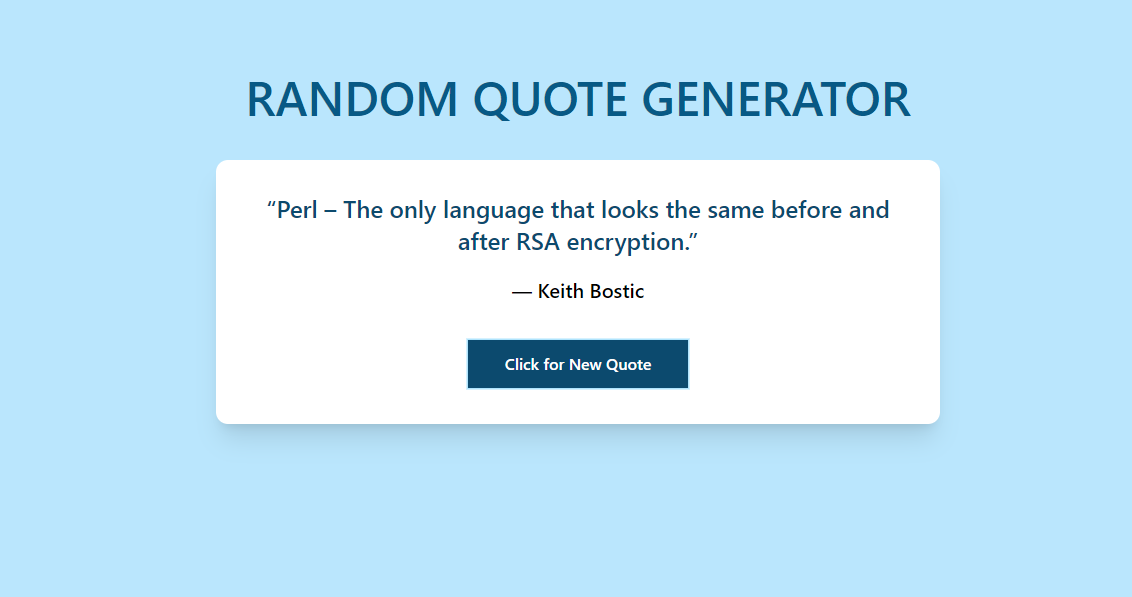
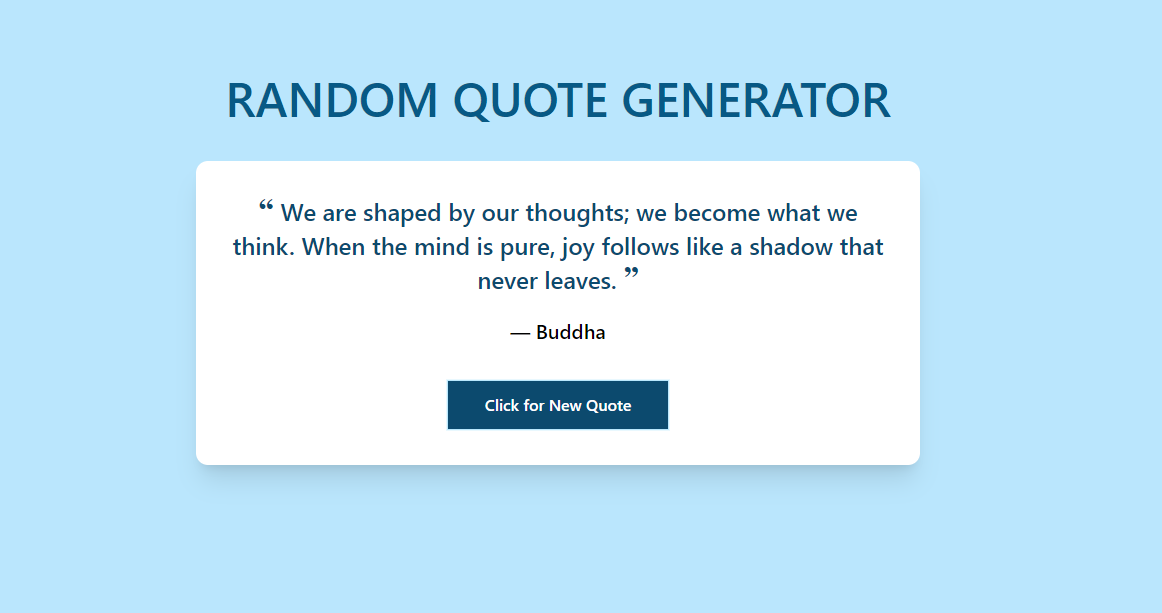
final commit

Changed region(s): [[0.1546, 0.2412, 0.8348, 0.7839], [0.1855, 0.1206, 0.8039, 0.2111]]

diff --git a/index.html b/index.html
@@ -13,13 +13,16 @@
   <section class="bg-blueLight h-[100vh] text-center py-8 md:p-20  bg-sky-200 font-semibold">
     <h1 class="md:text-5xl mb-6 uppercase text-lg text-sky-800">Random Quote Generator</h1>
     <div class="w-[90%] lg:w-[60%] mt-10 bg-white shadow-xl shadow-black-400 rounded-xl pt-8 px-8 mx-auto">
-      <h2 class="quote md:text-2xl mb-5 text-sky-900">Quote goes here</h2>
-      <blockquote class="author text-lg md:text-xl ">-Author</blockquote>
+      <h2 class="md:text-2xl mb-5 text-sky-900">
+        <span class="text-3xl font-serif">&ldquo;</span>
+        <span class="quote">Quote goes here</span>
+        <span class="text-3xl font-serif leading-0">&rdquo;</span>
+      </h2>
+      <blockquote class="author text-lg text-base md:text-xl">-Author</blockquote>
       <button
-        class="btn-quote p-3 bg-sky-900 my-9 text-white w-300 md:w-1/3  mx-auto ransition duration-700 ease-in-outhover:bg-sky-700 active:bg-sky-500 focus:outline-none focus:ring focus:ring-sky-300">Click
-        for New Quote</button>
+        class="btn-quote p-3 bg-sky-900 my-9 text-white w-300 md:w-1/3  mx-auto ransition duration-700 ease-in-outhover:bg-sky-700 active:bg-sky-500 focus:outline-none focus:ring focus:ring-sky-300">
+        Click for New Quote</button>
     </div>
-
   </section>
   <script src="script.js"></script>
 </body>

diff --git a/script.js b/script.js
@@ -6,10 +6,11 @@ const quoteAuthor = document.querySelector(".author");
 function randomeQuoteGenerator(){
   // Fetching the data from API
 
-  fetch("http://quotes.stormconsultancy.co.uk/random.json")
+  //fetch("http://quotes.stormconsultancy.co.uk/random.json")
+  fetch("https://api.quotable.io/random")
   .then(response => response.json())
   .then(data => {
-    quoteText.innerText = `“${data.quote}”`;
+    quoteText.innerText = `${data.content}`;
     quoteAuthor.innerText = `— ${data.author}`;
   }); 
 }
